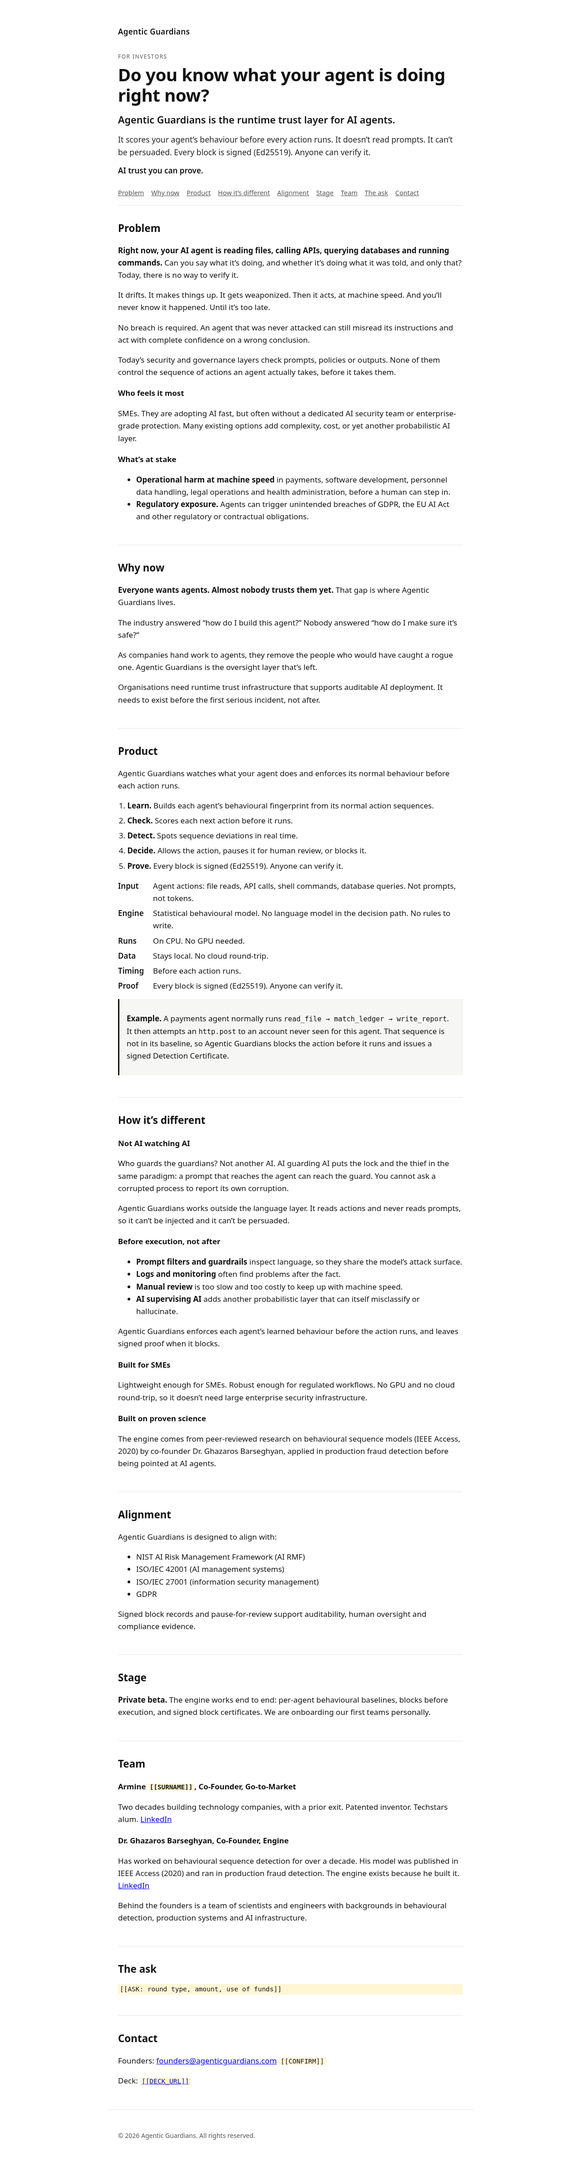
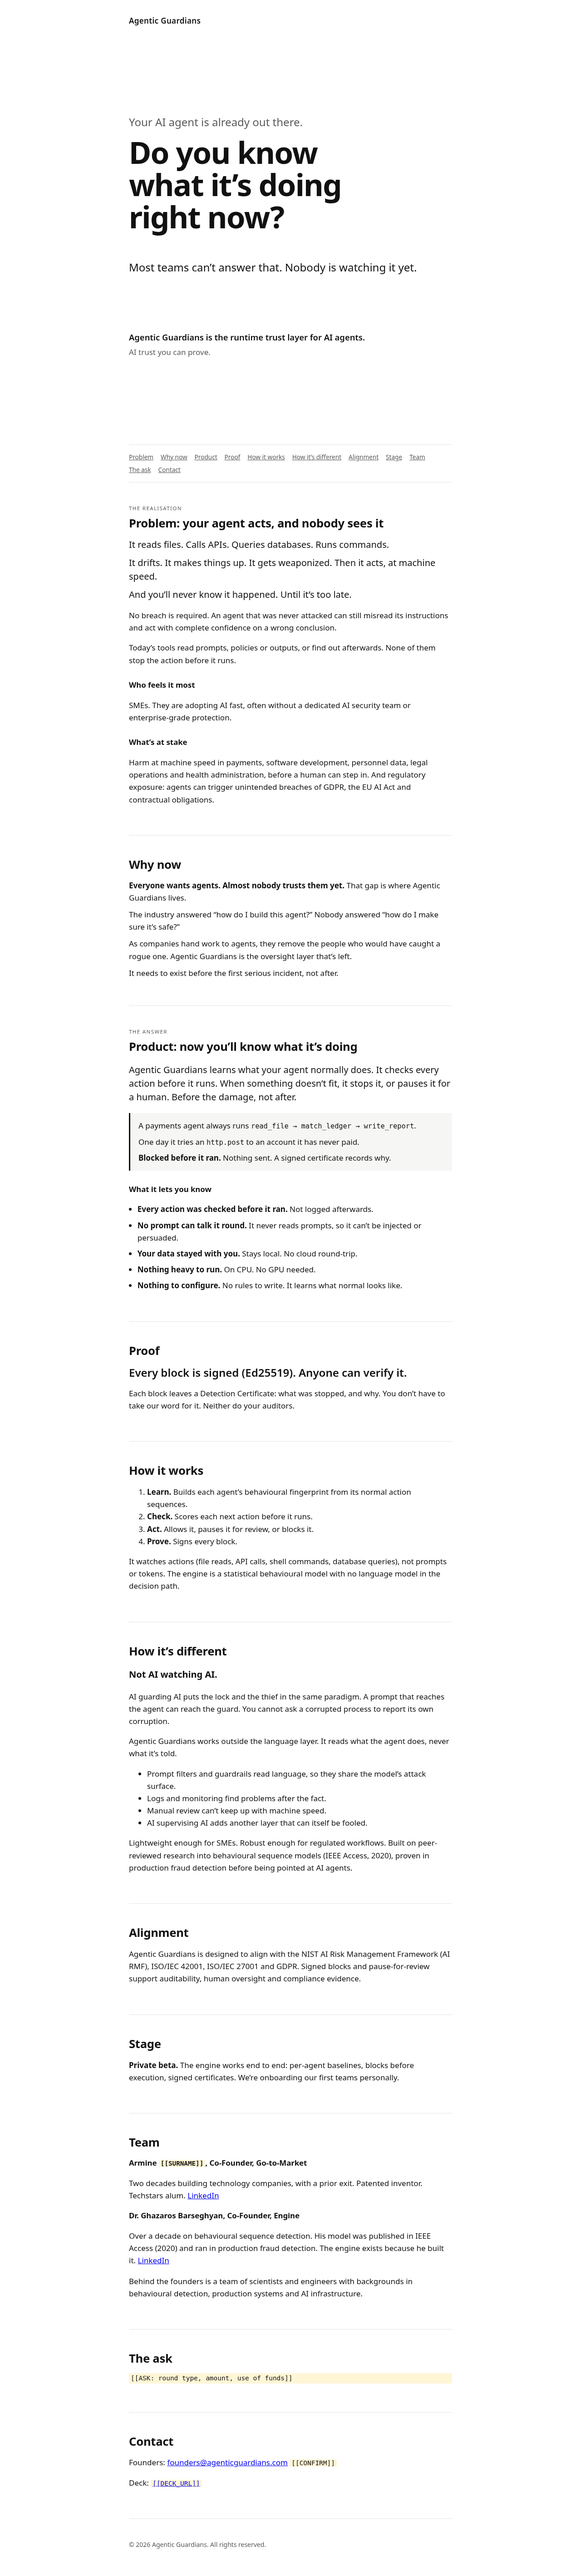
Investor page: question-first hero and question → realisation → answer → proof flow

Changed region(s): [[0.1875, 0.0, 0.7812, 0.9675], [0.6875, 0.0312, 0.7188, 0.0624]]

diff --git a/discoverability-kit/investors/index.html b/discoverability-kit/investors/index.html
@@ -9,8 +9,8 @@
 <meta name="robots" content="index,follow">
 <meta property="og:type" content="website">
 <meta property="og:site_name" content="Agentic Guardians">
-<meta property="og:title" content="Do you know what your agent is doing right now? · Agentic Guardians for investors">
-<meta name="twitter:title" content="Do you know what your agent is doing right now? · Agentic Guardians">
+<meta property="og:title" content="Your AI agent is already out there. Do you know what it’s doing right now? · Agentic Guardians">
+<meta name="twitter:title" content="Your AI agent is already out there. Do you know what it’s doing right now? · Agentic Guardians">
 <meta property="og:description" content="Agentic Guardians scores your agent’s behaviour before every action runs. It doesn’t read prompts. It can’t be persuaded.">
 <meta property="og:url" content="[[DOMAIN]]/investors/">
 <meta property="og:image" content="[[DOMAIN]]/[[OG_IMAGE_PATH]]">
@@ -19,44 +19,63 @@
 <!-- Optionally paste jsonld.html here as well. -->
 <style>
   /* Minimal, neutral. Restyle per version. */
-  :root { --ink:#111; --muted:#555; --line:#e5e5e5; --soft:#f6f6f4; }
+  :root { --ink:#111; --muted:#5a5a5a; --line:#e5e5e5; --soft:#f6f6f4; }
+  * { box-sizing:border-box; }
   body { margin:0; font:17px/1.6 system-ui,-apple-system,"Segoe UI",sans-serif; color:var(--ink); background:#fff; }
-  header, main, footer { max-width:760px; margin:0 auto; padding:0 24px; }
-  header { padding-top:56px; padding-bottom:16px; }
-  .brand { font-weight:600; letter-spacing:.02em; color:var(--ink); text-decoration:none; }
-  .eyebrow { text-transform:uppercase; letter-spacing:.12em; font-size:.75rem; color:var(--muted); margin:32px 0 8px; }
-  h1 { font-size:2.4rem; line-height:1.15; margin:0 0 16px; letter-spacing:-.01em; }
-  .subhead { font-size:1.35rem; font-weight:600; margin:0 0 12px; }
-  .lede { font-size:1.1rem; color:#222; margin:0 0 12px; }
-  .tagline { font-weight:600; margin:0; }
-  nav ul { list-style:none; padding:0; margin:24px 0 0; display:flex; flex-wrap:wrap; gap:8px 16px; font-size:.9rem; }
-  nav a { color:var(--muted); }
-  section { padding:32px 0; border-top:1px solid var(--line); }
-  h2 { font-size:1.4rem; margin:0 0 12px; }
-  h3 { font-size:1.05rem; margin:20px 0 6px; }
-  ol.steps { padding-left:1.2em; } ol.steps li { margin-bottom:6px; }
-  dl.spec { display:grid; grid-template-columns:max-content 1fr; gap:6px 20px; margin:16px 0; }
-  dl.spec dt { font-weight:600; } dl.spec dd { margin:0; }
-  .callout { background:var(--soft); border-left:3px solid var(--ink); padding:12px 16px; margin:16px 0; }
+  .wrap { max-width:760px; margin:0 auto; padding:0 24px; }
+  .brand { display:block; padding-top:32px; font-weight:600; letter-spacing:.02em; color:var(--ink); text-decoration:none; }
+
+  /* Hero: near-empty. Let the question land. */
+  .hero { min-height:clamp(560px, 92vh, 920px); display:flex; flex-direction:column; justify-content:center; padding:96px 0; }
+  .hero .lead { font-size:clamp(1.15rem, 2.4vw, 1.5rem); color:var(--muted); margin:0 0 12px; }
+  .hero h1 { font-size:clamp(2.4rem, 6.4vw, 4.2rem); line-height:1.06; letter-spacing:-.025em; margin:0; max-width:14ch; }
+  .hero .beat { font-size:clamp(1.15rem, 2.4vw, 1.5rem); margin:56px 0 0; }
+  .hero .answer { margin:120px 0 0; }
+  .hero .subhead { font-size:1.15rem; font-weight:600; margin:0 0 4px; }
+  .hero .tagline { color:var(--muted); margin:0; }
+
+  nav.toc { border-top:1px solid var(--line); padding:16px 0; }
+  nav.toc ul { list-style:none; padding:0; margin:0; display:flex; flex-wrap:wrap; gap:6px 16px; font-size:.85rem; }
+  nav.toc a { color:var(--muted); }
+
+  section { padding:48px 0; border-top:1px solid var(--line); }
+  .kicker { text-transform:uppercase; letter-spacing:.12em; font-size:.72rem; color:var(--muted); margin:0 0 8px; }
+  h2 { font-size:1.6rem; line-height:1.25; margin:0 0 16px; letter-spacing:-.01em; }
+  h3 { font-size:1.05rem; margin:28px 0 8px; }
+  .big { font-size:1.25rem; line-height:1.5; }
+  .short p { margin:0 0 10px; }
+  .callout { background:var(--soft); border-left:3px solid var(--ink); padding:14px 18px; margin:20px 0; }
+  .callout p { margin:0 0 8px; } .callout p:last-child { margin:0; }
+  .proofline { font-size:1.5rem; font-weight:600; line-height:1.3; margin:0 0 12px; }
+  ul.know { padding-left:1.1em; } ul.know li { margin-bottom:8px; }
   code { font-family:ui-monospace,monospace; font-size:.9em; }
-  .team article { margin-bottom:16px; }
+  .team article { margin-bottom:18px; }
+  .team h3 { margin-top:0; }
   .placeholder { background:#fff6d6; padding:0 4px; font-family:ui-monospace,monospace; font-size:.85em; }
-  footer { padding:32px 24px 56px; color:var(--muted); font-size:.875rem; border-top:1px solid var(--line); }
+  footer { border-top:1px solid var(--line); padding:32px 0 56px; color:var(--muted); font-size:.875rem; }
 </style>
 </head>
 <body>
-<header>
+<div class="wrap">
   <a class="brand" href="../">Agentic Guardians</a>
-  <p class="eyebrow">For investors</p>
-  <h1>Do you know what your agent is doing right now?</h1>
-  <p class="subhead">Agentic Guardians is the runtime trust layer for AI agents.</p>
-  <p class="lede">It scores your agent’s behaviour before every action runs. It doesn’t read prompts. It can’t be persuaded. Every block is signed (Ed25519). Anyone can verify it.</p>
-  <p class="tagline">AI trust you can prove.</p>
-  <nav aria-label="On this page">
+
+  <header class="hero" id="question">
+    <p class="lead">Your AI agent is already out there.</p>
+    <h1>Do you know what it’s doing right now?</h1>
+    <p class="beat">Most teams can’t answer that. Nobody is watching it yet.</p>
+    <div class="answer">
+      <p class="subhead">Agentic Guardians is the runtime trust layer for AI agents.</p>
+      <p class="tagline">AI trust you can prove.</p>
+    </div>
+  </header>
+
+  <nav class="toc" aria-label="On this page">
     <ul>
       <li><a href="#problem">Problem</a></li>
       <li><a href="#why-now">Why now</a></li>
       <li><a href="#product">Product</a></li>
+      <li><a href="#proof">Proof</a></li>
+      <li><a href="#how-it-works">How it works</a></li>
       <li><a href="#different">How it’s different</a></li>
       <li><a href="#alignment">Alignment</a></li>
       <li><a href="#stage">Stage</a></li>
@@ -65,118 +84,122 @@
       <li><a href="#contact">Contact</a></li>
     </ul>
   </nav>
-</header>
 
-<main>
-  <section id="problem" aria-labelledby="problem-h">
-    <h2 id="problem-h">Problem</h2>
-    <p><strong>Right now, your AI agent is reading files, calling APIs, querying databases and running commands.</strong> Can you say what it’s doing, and whether it’s doing what it was told, and only that? Today, there is no way to verify it.</p>
-    <p>It drifts. It makes things up. It gets weaponized. Then it acts, at machine speed. And you’ll never know it happened. Until it’s too late.</p>
-    <p>No breach is required. An agent that was never attacked can still misread its instructions and act with complete confidence on a wrong conclusion.</p>
-    <p>Today’s security and governance layers check prompts, policies or outputs. None of them control the sequence of actions an agent actually takes, before it takes them.</p>
-    <h3>Who feels it most</h3>
-    <p>SMEs. They are adopting AI fast, but often without a dedicated AI security team or enterprise-grade protection. Many existing options add complexity, cost, or yet another probabilistic AI layer.</p>
-    <h3>What’s at stake</h3>
-    <ul>
-      <li><strong>Operational harm at machine speed</strong> in payments, software development, personnel data handling, legal operations and health administration, before a human can step in.</li>
-      <li><strong>Regulatory exposure.</strong> Agents can trigger unintended breaches of GDPR, the EU AI Act and other regulatory or contractual obligations.</li>
-    </ul>
-  </section>
+  <main>
+    <section id="problem" aria-labelledby="problem-h">
+      <p class="kicker">The realisation</p>
+      <h2 id="problem-h">Problem: your agent acts, and nobody sees it</h2>
+      <div class="short big">
+        <p>It reads files. Calls APIs. Queries databases. Runs commands.</p>
+        <p>It drifts. It makes things up. It gets weaponized. Then it acts, at machine speed.</p>
+        <p>And you’ll never know it happened. Until it’s too late.</p>
+      </div>
+      <p>No breach is required. An agent that was never attacked can still misread its instructions and act with complete confidence on a wrong conclusion.</p>
+      <p>Today’s tools read prompts, policies or outputs, or find out afterwards. None of them stop the action before it runs.</p>
+      <h3>Who feels it most</h3>
+      <p>SMEs. They are adopting AI fast, often without a dedicated AI security team or enterprise-grade protection.</p>
+      <h3>What’s at stake</h3>
+      <p>Harm at machine speed in payments, software development, personnel data, legal operations and health administration, before a human can step in. And regulatory exposure: agents can trigger unintended breaches of GDPR, the EU AI Act and contractual obligations.</p>
+    </section>
 
-  <section id="why-now" aria-labelledby="why-now-h">
-    <h2 id="why-now-h">Why now</h2>
-    <p><strong>Everyone wants agents. Almost nobody trusts them yet.</strong> That gap is where Agentic Guardians lives.</p>
-    <p>The industry answered “how do I build this agent?” Nobody answered “how do I make sure it’s safe?”</p>
-    <p>As companies hand work to agents, they remove the people who would have caught a rogue one. Agentic Guardians is the oversight layer that’s left.</p>
-    <p>Organisations need runtime trust infrastructure that supports auditable AI deployment. It needs to exist before the first serious incident, not after.</p>
-  </section>
+    <section id="why-now" aria-labelledby="why-now-h">
+      <h2 id="why-now-h">Why now</h2>
+      <div class="short">
+        <p><strong>Everyone wants agents. Almost nobody trusts them yet.</strong> That gap is where Agentic Guardians lives.</p>
+        <p>The industry answered “how do I build this agent?” Nobody answered “how do I make sure it’s safe?”</p>
+        <p>As companies hand work to agents, they remove the people who would have caught a rogue one. Agentic Guardians is the oversight layer that’s left.</p>
+        <p>It needs to exist before the first serious incident, not after.</p>
+      </div>
+    </section>
 
-  <section id="product" aria-labelledby="product-h">
-    <h2 id="product-h">Product</h2>
-    <p>Agentic Guardians watches what your agent does and enforces its normal behaviour before each action runs.</p>
-    <ol class="steps">
-      <li><strong>Learn.</strong> Builds each agent’s behavioural fingerprint from its normal action sequences.</li>
-      <li><strong>Check.</strong> Scores each next action before it runs.</li>
-      <li><strong>Detect.</strong> Spots sequence deviations in real time.</li>
-      <li><strong>Decide.</strong> Allows the action, pauses it for human review, or blocks it.</li>
-      <li><strong>Prove.</strong> Every block is signed (Ed25519). Anyone can verify it.</li>
-    </ol>
-    <dl class="spec">
-      <dt>Input</dt><dd>Agent actions: file reads, API calls, shell commands, database queries. Not prompts, not tokens.</dd>
-      <dt>Engine</dt><dd>Statistical behavioural model. No language model in the decision path. No rules to write.</dd>
-      <dt>Runs</dt><dd>On CPU. No GPU needed.</dd>
-      <dt>Data</dt><dd>Stays local. No cloud round-trip.</dd>
-      <dt>Timing</dt><dd>Before each action runs.</dd>
-      <dt>Proof</dt><dd>Every block is signed (Ed25519). Anyone can verify it.</dd>
-    </dl>
-    <div class="callout">
-      <p><strong>Example.</strong> A payments agent normally runs <code>read_file → match_ledger → write_report</code>. It then attempts an <code>http.post</code> to an account never seen for this agent. That sequence is not in its baseline, so Agentic Guardians blocks the action before it runs and issues a signed Detection Certificate.</p>
-    </div>
-  </section>
+    <section id="product" aria-labelledby="product-h">
+      <p class="kicker">The answer</p>
+      <h2 id="product-h">Product: now you’ll know what it’s doing</h2>
+      <p class="big">Agentic Guardians learns what your agent normally does. It checks every action before it runs. When something doesn’t fit, it stops it, or pauses it for a human. Before the damage, not after.</p>
+      <div class="callout">
+        <p>A payments agent always runs <code>read_file → match_ledger → write_report</code>.</p>
+        <p>One day it tries an <code>http.post</code> to an account it has never paid.</p>
+        <p><strong>Blocked before it ran.</strong> Nothing sent. A signed certificate records why.</p>
+      </div>
+      <h3>What it lets you know</h3>
+      <ul class="know">
+        <li><strong>Every action was checked before it ran.</strong> Not logged afterwards.</li>
+        <li><strong>No prompt can talk it round.</strong> It never reads prompts, so it can’t be injected or persuaded.</li>
+        <li><strong>Your data stayed with you.</strong> Stays local. No cloud round-trip.</li>
+        <li><strong>Nothing heavy to run.</strong> On CPU. No GPU needed.</li>
+        <li><strong>Nothing to configure.</strong> No rules to write. It learns what normal looks like.</li>
+      </ul>
+    </section>
 
-  <section id="different" aria-labelledby="different-h">
-    <h2 id="different-h">How it’s different</h2>
-    <h3>Not AI watching AI</h3>
-    <p>Who guards the guardians? Not another AI. AI guarding AI puts the lock and the thief in the same paradigm: a prompt that reaches the agent can reach the guard. You cannot ask a corrupted process to report its own corruption.</p>
-    <p>Agentic Guardians works outside the language layer. It reads actions and never reads prompts, so it can’t be injected and it can’t be persuaded.</p>
-    <h3>Before execution, not after</h3>
-    <ul>
-      <li><strong>Prompt filters and guardrails</strong> inspect language, so they share the model’s attack surface.</li>
-      <li><strong>Logs and monitoring</strong> often find problems after the fact.</li>
-      <li><strong>Manual review</strong> is too slow and too costly to keep up with machine speed.</li>
-      <li><strong>AI supervising AI</strong> adds another probabilistic layer that can itself misclassify or hallucinate.</li>
-    </ul>
-    <p>Agentic Guardians enforces each agent’s learned behaviour before the action runs, and leaves signed proof when it blocks.</p>
-    <h3>Built for SMEs</h3>
-    <p>Lightweight enough for SMEs. Robust enough for regulated workflows. No GPU and no cloud round-trip, so it doesn’t need large enterprise security infrastructure.</p>
-    <h3>Built on proven science</h3>
-    <p>The engine comes from peer-reviewed research on behavioural sequence models (IEEE Access, 2020) by co-founder Dr. Ghazaros Barseghyan, applied in production fraud detection before being pointed at AI agents.</p>
-  </section>
+    <section id="proof" aria-labelledby="proof-h">
+      <h2 id="proof-h">Proof</h2>
+      <p class="proofline">Every block is signed (Ed25519). Anyone can verify it.</p>
+      <p>Each block leaves a Detection Certificate: what was stopped, and why. You don’t have to take our word for it. Neither do your auditors.</p>
+    </section>
 
-  <section id="alignment" aria-labelledby="alignment-h">
-    <h2 id="alignment-h">Alignment</h2>
-    <p>Agentic Guardians is designed to align with:</p>
-    <ul>
-      <li>NIST AI Risk Management Framework (AI RMF)</li>
-      <li>ISO/IEC 42001 (AI management systems)</li>
-      <li>ISO/IEC 27001 (information security management)</li>
-      <li>GDPR</li>
-    </ul>
-    <p>Signed block records and pause-for-review support auditability, human oversight and compliance evidence.</p>
-  </section>
+    <section id="how-it-works" aria-labelledby="how-h">
+      <h2 id="how-h">How it works</h2>
+      <ol>
+        <li><strong>Learn.</strong> Builds each agent’s behavioural fingerprint from its normal action sequences.</li>
+        <li><strong>Check.</strong> Scores each next action before it runs.</li>
+        <li><strong>Act.</strong> Allows it, pauses it for review, or blocks it.</li>
+        <li><strong>Prove.</strong> Signs every block.</li>
+      </ol>
+      <p>It watches actions (file reads, API calls, shell commands, database queries), not prompts or tokens. The engine is a statistical behavioural model with no language model in the decision path.</p>
+    </section>
 
-  <section id="stage" aria-labelledby="stage-h">
-    <h2 id="stage-h">Stage</h2>
-    <p><strong>Private beta.</strong> The engine works end to end: per-agent behavioural baselines, blocks before execution, and signed block certificates. We are onboarding our first teams personally.</p>
-  </section>
+    <section id="different" aria-labelledby="different-h">
+      <h2 id="different-h">How it’s different</h2>
+      <p class="big"><strong>Not AI watching AI.</strong></p>
+      <p>AI guarding AI puts the lock and the thief in the same paradigm. A prompt that reaches the agent can reach the guard. You cannot ask a corrupted process to report its own corruption.</p>
+      <p>Agentic Guardians works outside the language layer. It reads what the agent does, never what it’s told.</p>
+      <ul>
+        <li>Prompt filters and guardrails read language, so they share the model’s attack surface.</li>
+        <li>Logs and monitoring find problems after the fact.</li>
+        <li>Manual review can’t keep up with machine speed.</li>
+        <li>AI supervising AI adds another layer that can itself be fooled.</li>
+      </ul>
+      <p>Lightweight enough for SMEs. Robust enough for regulated workflows. Built on peer-reviewed research into behavioural sequence models (IEEE Access, 2020), proven in production fraud detection before being pointed at AI agents.</p>
+    </section>
 
-  <section id="team" class="team" aria-labelledby="team-h">
-    <h2 id="team-h">Team</h2>
-    <article>
-      <h3>Armine <span class="placeholder">[[SURNAME]]</span>, Co-Founder, Go-to-Market</h3>
-      <p>Two decades building technology companies, with a prior exit. Patented inventor. Techstars alum. <a href="https://ca.linkedin.com/in/armine">LinkedIn</a></p>
-    </article>
-    <article>
-      <h3>Dr. Ghazaros Barseghyan, Co-Founder, Engine</h3>
-      <p>Has worked on behavioural sequence detection for over a decade. His model was published in IEEE Access (2020) and ran in production fraud detection. The engine exists because he built it. <a href="https://am.linkedin.com/in/ghazaros-barseghyan-2b585aa3">LinkedIn</a></p>
-    </article>
-    <p>Behind the founders is a team of scientists and engineers with backgrounds in behavioural detection, production systems and AI infrastructure.</p>
-  </section>
+    <section id="alignment" aria-labelledby="alignment-h">
+      <h2 id="alignment-h">Alignment</h2>
+      <p>Agentic Guardians is designed to align with the NIST AI Risk Management Framework (AI RMF), ISO/IEC 42001, ISO/IEC 27001 and GDPR. Signed blocks and pause-for-review support auditability, human oversight and compliance evidence.</p>
+    </section>
 
-  <section id="ask" aria-labelledby="ask-h">
-    <h2 id="ask-h">The ask</h2>
-    <p class="placeholder">[[ASK: round type, amount, use of funds]]</p>
-  </section>
+    <section id="stage" aria-labelledby="stage-h">
+      <h2 id="stage-h">Stage</h2>
+      <p><strong>Private beta.</strong> The engine works end to end: per-agent baselines, blocks before execution, signed certificates. We’re onboarding our first teams personally.</p>
+    </section>
 
-  <section id="contact" aria-labelledby="contact-h">
-    <h2 id="contact-h">Contact</h2>
-    <p>Founders: <a href="mailto:founders@agenticguardians.com">founders@agenticguardians.com</a> <span class="placeholder">[[CONFIRM]]</span></p>
-    <p>Deck: <a class="placeholder" href="[[DECK_URL]]">[[DECK_URL]]</a></p>
-  </section>
-</main>
+    <section id="team" class="team" aria-labelledby="team-h">
+      <h2 id="team-h">Team</h2>
+      <article>
+        <h3>Armine <span class="placeholder">[[SURNAME]]</span>, Co-Founder, Go-to-Market</h3>
+        <p>Two decades building technology companies, with a prior exit. Patented inventor. Techstars alum. <a href="https://ca.linkedin.com/in/armine">LinkedIn</a></p>
+      </article>
+      <article>
+        <h3>Dr. Ghazaros Barseghyan, Co-Founder, Engine</h3>
+        <p>Over a decade on behavioural sequence detection. His model was published in IEEE Access (2020) and ran in production fraud detection. The engine exists because he built it. <a href="https://am.linkedin.com/in/ghazaros-barseghyan-2b585aa3">LinkedIn</a></p>
+      </article>
+      <p>Behind the founders is a team of scientists and engineers with backgrounds in behavioural detection, production systems and AI infrastructure.</p>
+    </section>
 
-<footer>
-  <p>© 2026 Agentic Guardians. All rights reserved.</p>
-</footer>
+    <section id="ask" aria-labelledby="ask-h">
+      <h2 id="ask-h">The ask</h2>
+      <p class="placeholder">[[ASK: round type, amount, use of funds]]</p>
+    </section>
+
+    <section id="contact" aria-labelledby="contact-h">
+      <h2 id="contact-h">Contact</h2>
+      <p>Founders: <a href="mailto:founders@agenticguardians.com">founders@agenticguardians.com</a> <span class="placeholder">[[CONFIRM]]</span></p>
+      <p>Deck: <a class="placeholder" href="[[DECK_URL]]">[[DECK_URL]]</a></p>
+    </section>
+  </main>
+
+  <footer>
+    <p>© 2026 Agentic Guardians. All rights reserved.</p>
+  </footer>
+</div>
 </body>
 </html>

diff --git a/discoverability-kit/head-meta.html b/discoverability-kit/head-meta.html
@@ -1,7 +1,7 @@
 <!--
   Agentic Guardians · recommended <head> tags (v2)
   Title now uses the proposal's positioning "The runtime trust layer for AI agents";
-  social titles lead with the hero question "Do you know what your agent is doing right now?"
+  social titles lead with the hero question "Your AI agent is already out there. Do you know what it’s doing right now?"
   (alternative: the tagline "AI trust you can prove"). <title> and meta description unchanged.
   Replace [[DOMAIN]] with the final origin, no trailing slash (e.g. https://example.com).
   Meta description: kept exactly as on developer-v7 (the agreed existing line). It is
@@ -21,7 +21,7 @@
 <!-- Open Graph -->
 <meta property="og:type" content="website">
 <meta property="og:site_name" content="Agentic Guardians">
-<meta property="og:title" content="Do you know what your agent is doing right now? · Agentic Guardians">
+<meta property="og:title" content="Your AI agent is already out there. Do you know what it’s doing right now?">
 <!-- Alternative og:title / twitter:title: "Agentic Guardians · AI trust you can prove" -->
 <meta property="og:description" content="Agentic Guardians scores your agent’s behaviour before every action runs. It doesn’t read prompts. It can’t be persuaded.">
 <meta property="og:url" content="[[DOMAIN]]/">
@@ -32,7 +32,7 @@
 <!-- Twitter / X card -->
 <meta name="twitter:card" content="summary_large_image">
 <meta name="twitter:site" content="[[X_HANDLE e.g. @handle]]">
-<meta name="twitter:title" content="Do you know what your agent is doing right now? · Agentic Guardians">
+<meta name="twitter:title" content="Your AI agent is already out there. Do you know what it’s doing right now?">
 <meta name="twitter:description" content="Agentic Guardians scores your agent’s behaviour before every action runs. It doesn’t read prompts. It can’t be persuaded.">
 <meta name="twitter:image" content="[[DOMAIN]]/[[OG_IMAGE_PATH]]">
 
